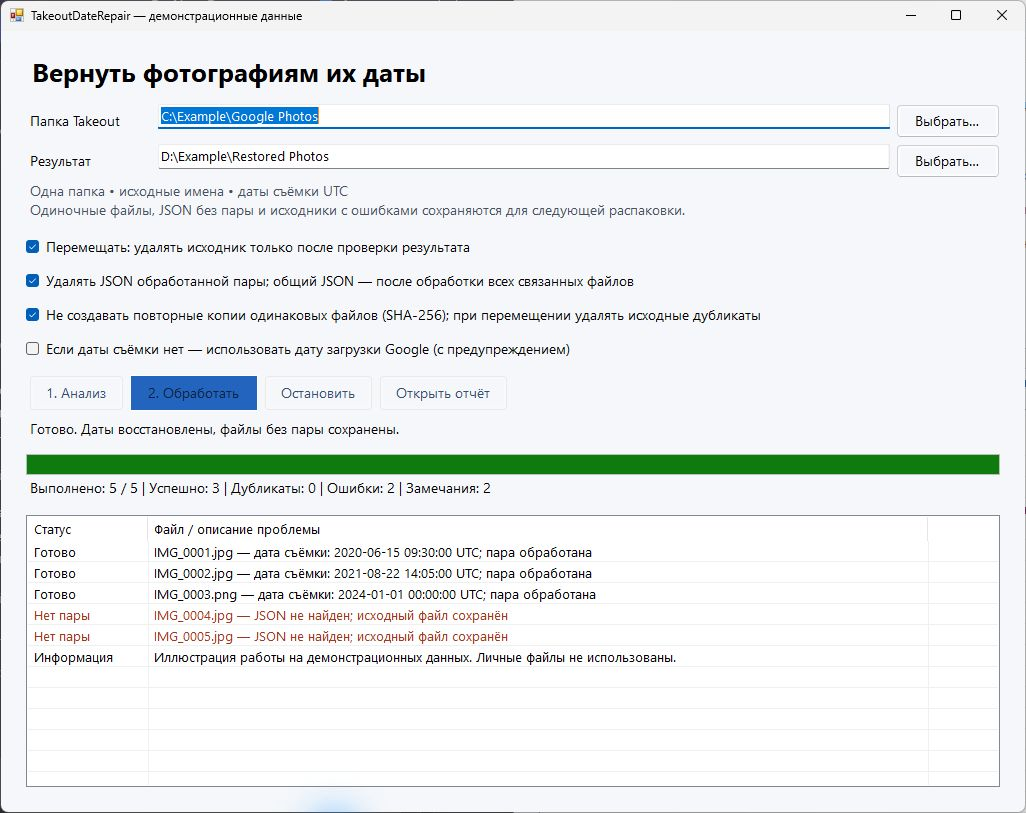
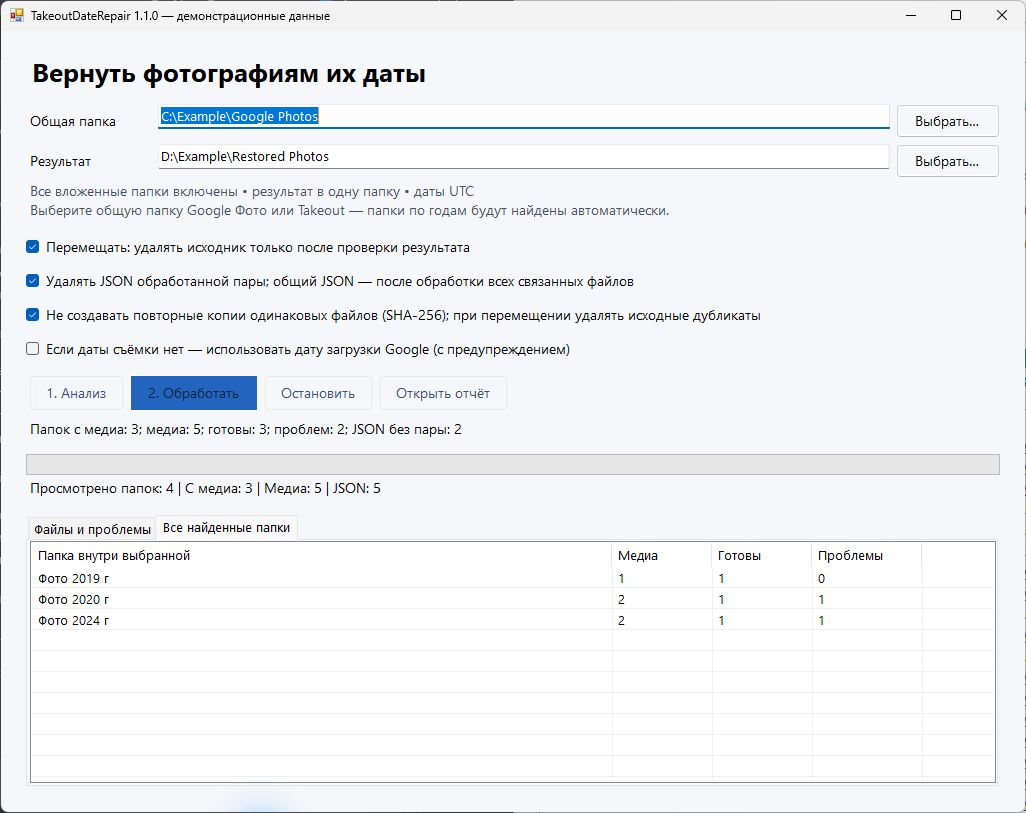
feat: show all nested folders in one queue

diff --git a/src/TakeoutDateRepair.cs b/src/TakeoutDateRepair.cs
@@ -14,6 +14,10 @@ using System.Threading.Tasks;
 using System.Web.Script.Serialization;
 using System.Windows.Forms;
 
+[assembly: System.Reflection.AssemblyVersion("1.1.0.0")]
+[assembly: System.Reflection.AssemblyFileVersion("1.1.0.0")]
+[assembly: System.Reflection.AssemblyProduct("TakeoutDateRepair")]
+
 namespace TakeoutDateRepair
 {
     public sealed class Sidecar
@@ -32,8 +36,14 @@ namespace TakeoutDateRepair
     {
         public List<Item> Items = new List<Item>();
         public List<string> Issues = new List<string>();
-        public int JsonCount, OrphanCount;
+        public int JsonCount, OrphanCount, DirectoryCount;
+        public List<FolderSummary> Folders = new List<FolderSummary>();
         public string Root;
+    }
+    public sealed class FolderSummary
+    {
+        public string Path;
+        public int MediaCount, ReadyCount, ProblemCount;
     }
     public sealed class History
     {
@@ -52,23 +62,35 @@ namespace TakeoutDateRepair
         static readonly HashSet<string> QuickTime = new HashSet<string>(new[] { ".mp4", ".mov", ".m4v", ".3gp", ".3g2" }, StringComparer.OrdinalIgnoreCase);
         static readonly HashSet<string> Exif = new HashSet<string>(new[] { ".jpg", ".jpeg", ".jpe", ".tif", ".tiff", ".heic", ".heif", ".png", ".webp", ".avif", ".dng" }, StringComparer.OrdinalIgnoreCase);
         public static JavaScriptSerializer Serializer() { return new JavaScriptSerializer { MaxJsonLength = 16 * 1024 * 1024 }; }
-        public static string Full(string path) { return System.IO.Path.GetFullPath(path).TrimEnd(System.IO.Path.DirectorySeparatorChar, System.IO.Path.AltDirectorySeparatorChar); }
-        public static bool Within(string child, string parent) { return string.Equals(Full(child), Full(parent), StringComparison.OrdinalIgnoreCase) || Full(child).StartsWith(Full(parent) + System.IO.Path.DirectorySeparatorChar, StringComparison.OrdinalIgnoreCase); }
-        static void Check(CancellationToken token) { token.ThrowIfCancellationRequested(); }
-        static List<string> Files(string root, List<string> issues, CancellationToken token)
+        public static string Full(string path)
         {
-            var files = new List<string>(); var pending = new Stack<string>(); pending.Push(root);
+            string full = System.IO.Path.GetFullPath(path), root = System.IO.Path.GetPathRoot(full);
+            return string.Equals(full, root, StringComparison.OrdinalIgnoreCase) ? full : full.TrimEnd(System.IO.Path.DirectorySeparatorChar, System.IO.Path.AltDirectorySeparatorChar);
+        }
+        public static bool Within(string child, string parent)
+        {
+            string fullChild = Full(child), fullParent = Full(parent);
+            string prefix = fullParent.EndsWith(System.IO.Path.DirectorySeparatorChar.ToString(), StringComparison.Ordinal) ? fullParent : fullParent + System.IO.Path.DirectorySeparatorChar;
+            return string.Equals(fullChild, fullParent, StringComparison.OrdinalIgnoreCase) || fullChild.StartsWith(prefix, StringComparison.OrdinalIgnoreCase);
+        }
+        static void Check(CancellationToken token) { token.ThrowIfCancellationRequested(); }
+        static List<string> Files(Scan scan, CancellationToken token, Action<string> progress)
+        {
+            var files = new List<string>(); var pending = new Stack<string>(); pending.Push(scan.Root);
             while (pending.Count > 0)
             {
                 Check(token); string dir = pending.Pop();
+                scan.DirectoryCount++;
+                if (scan.DirectoryCount == 1 || scan.DirectoryCount % 25 == 0)
+                    progress("Поиск во всех подпапках. Просмотрено папок: " + scan.DirectoryCount + " — " + dir);
                 try
                 {
                     files.AddRange(Directory.GetFiles(dir));
                     foreach (string sub in Directory.GetDirectories(dir))
                         if ((File.GetAttributes(sub) & FileAttributes.ReparsePoint) == 0) pending.Push(sub);
-                        else issues.Add("Пропущена ссылка на папку: " + sub);
+                        else scan.Issues.Add("Пропущена ссылка на папку: " + sub);
                 }
-                catch (Exception ex) { issues.Add("Не прочитана папка: " + dir + " — " + ex.Message); }
+                catch (Exception ex) { scan.Issues.Add("Не прочитана папка: " + dir + " — " + ex.Message); }
             }
             return files;
         }
@@ -127,7 +149,7 @@ namespace TakeoutDateRepair
         public static Scan Analyze(string root, bool fallback, CancellationToken token, Action<string> progress)
         {
             var scan = new Scan { Root = Full(root) };
-            var files = Files(root, scan.Issues, token);
+            var files = Files(scan, token, progress);
             var byName = new Dictionary<string, List<Sidecar>>(StringComparer.OrdinalIgnoreCase);
             var byTitle = new Dictionary<string, List<Sidecar>>(StringComparer.OrdinalIgnoreCase);
             var global = new Dictionary<string, List<Sidecar>>(StringComparer.OrdinalIgnoreCase);
@@ -166,7 +188,14 @@ namespace TakeoutDateRepair
             }
             foreach (var sc in sidecars.Where(x => !used.Contains(x.Path)))
             { scan.OrphanCount++; scan.Issues.Add("JSON без однозначно найденного медиа: " + sc.Path + (sc.Error == null ? "" : " — " + sc.Error)); }
+            foreach (var group in scan.Items.GroupBy(x => System.IO.Path.GetDirectoryName(x.Source), StringComparer.OrdinalIgnoreCase).OrderBy(x => x.Key, StringComparer.OrdinalIgnoreCase))
+                scan.Folders.Add(new FolderSummary { Path = group.Key, MediaCount = group.Count(), ReadyCount = group.Count(x => x.Problem == null), ProblemCount = group.Count(x => x.Problem != null) });
             progress("Анализ завершён"); return scan;
+        }
+        public static string Relative(string path, string root)
+        {
+            if (string.Equals(Full(path), Full(root), StringComparison.OrdinalIgnoreCase)) return "(корневая папка)";
+            return Within(path, root) ? Full(path).Substring(Full(root).Length).TrimStart(System.IO.Path.DirectorySeparatorChar, System.IO.Path.AltDirectorySeparatorChar) : path;
         }
         public static string Hash(string path, CancellationToken token)
         {
@@ -248,6 +277,8 @@ namespace TakeoutDateRepair
             using (var w = new StreamWriter(file, false, new UTF8Encoding(true)))
             {
                 Row(w, "Статус", "Исходный файл", "JSON", "Дата UTC", "Примечание");
+                Row(w, "Сводка анализа", scan.Root, "", "", "Просмотрено папок: " + scan.DirectoryCount + "; папок с медиа: " + scan.Folders.Count);
+                foreach (var summary in scan.Folders) Row(w, "Папка", summary.Path, "", "", "Медиа: " + summary.MediaCount + "; готовы: " + summary.ReadyCount + "; проблемы: " + summary.ProblemCount);
                 foreach (var item in scan.Items) Row(w, item.Problem == null ? "Готов" : "Проблема", item.Source, item.Metadata == null ? "" : item.Metadata.Path,
                     item.Metadata == null || item.Metadata.Error != null ? "" : item.Metadata.Utc.ToString("o"), item.Problem ?? item.Note);
                 foreach (string issue in scan.Issues) Row(w, "Проблема анализа", "", "", "", issue);
@@ -308,7 +339,7 @@ namespace TakeoutDateRepair
                             if (!File.Exists(item.Metadata.Path) || Hash(item.Metadata.Path, token) != item.Metadata.ContentHash)
                                 throw new IOException("JSON изменился или исчез после анализа. Повторите анализ; исходник сохранён");
                             var utc = item.Metadata.Utc; string stamp = utc.ToString("o");
-                            progress(stats, "Обработка: " + System.IO.Path.GetFileName(item.Source), false);
+                            progress(stats, "Обработка: " + Relative(item.Source, scan.Root), false);
                             string sourceHash = Hash(item.Source, token); string key = sourceHash + "|" + stamp;
                             History existing = null; List<History> candidates;
                             if (dedupe && history.TryGetValue(key, out candidates))
@@ -375,7 +406,7 @@ namespace TakeoutDateRepair
                         stats.Done++;
                         Row(report, status, item.Source, target, item.Metadata == null ? "" : item.Metadata.Path,
                             item.Metadata == null || item.Metadata.Error != null ? "" : item.Metadata.Utc.ToString("o"), note);
-                        progress(stats, status + ": " + System.IO.Path.GetFileName(item.Source) + (note.Length > 0 ? " — " + note : ""), bad || warning);
+                        progress(stats, status + ": " + Relative(item.Source, scan.Root) + (note.Length > 0 ? " — " + note : ""), bad || warning);
                         if (token.IsCancellationRequested) break;
                     }
                     Row(report, token.IsCancellationRequested ? "Обработка остановлена" : "Обработка завершена", "", "", "", "",
@@ -392,12 +423,12 @@ namespace TakeoutDateRepair
         readonly CheckBox move = new CheckBox(), cleanup = new CheckBox(), dedupe = new CheckBox(), fallback = new CheckBox();
         readonly Label state = new Label(), counts = new Label();
         readonly ProgressBar bar = new ProgressBar();
-        readonly ListView messages = new ListView();
+        readonly ListView messages = new ListView(), folders = new ListView();
         CancellationTokenSource cancellation;
         Scan scan; string reportPath; bool busy; readonly string exe;
         public MainForm(string tool)
         {
-            exe = tool; Text = "Takeout — восстановление дат фото и видео"; MinimumSize = new Size(860, 690); Size = new Size(1040, 820);
+            exe = tool; Text = "TakeoutDateRepair 1.1.0 — все вложенные папки"; MinimumSize = new Size(860, 690); Size = new Size(1040, 820);
             StartPosition = FormStartPosition.CenterScreen; Font = new Font("Segoe UI", 10); BackColor = Color.FromArgb(245, 247, 250);
             var layout = new TableLayoutPanel { Dock = DockStyle.Fill, Padding = new Padding(22), ColumnCount = 3, RowCount = 13 };
             layout.ColumnStyles.Add(new ColumnStyle(SizeType.Absolute, 132)); layout.ColumnStyles.Add(new ColumnStyle(SizeType.Percent, 100)); layout.ColumnStyles.Add(new ColumnStyle(SizeType.Absolute, 110));
@@ -407,11 +438,11 @@ namespace TakeoutDateRepair
             layout.RowStyles.Add(new RowStyle(SizeType.Absolute, 27)); layout.RowStyles.Add(new RowStyle(SizeType.Absolute, 34)); layout.RowStyles.Add(new RowStyle(SizeType.Percent, 100));
             var title = new Label { Text = "Вернуть фотографиям их даты", Font = new Font("Segoe UI", 19, FontStyle.Bold), Dock = DockStyle.Fill };
             layout.Controls.Add(title, 0, 0); layout.SetColumnSpan(title, 3);
-            layout.Controls.Add(new Label { Text = "Папка Takeout", AutoSize = true, Anchor = AnchorStyles.Left }, 0, 1);
+            layout.Controls.Add(new Label { Text = "Общая папка", AutoSize = true, Anchor = AnchorStyles.Left }, 0, 1);
             source.Dock = DockStyle.Fill; layout.Controls.Add(source, 1, 1); pickSource.Text = "Выбрать…"; pickSource.Dock = DockStyle.Fill; layout.Controls.Add(pickSource, 2, 1);
             layout.Controls.Add(new Label { Text = "Результат", AutoSize = true, Anchor = AnchorStyles.Left }, 0, 2);
             destination.Dock = DockStyle.Fill; layout.Controls.Add(destination, 1, 2); pickDestination.Text = "Выбрать…"; pickDestination.Dock = DockStyle.Fill; layout.Controls.Add(pickDestination, 2, 2);
-            var hint = new Label { Text = "Одна папка • исходные имена • даты съёмки UTC\nОдиночные файлы, JSON без пары и исходники с ошибками сохраняются для следующей распаковки.", Dock = DockStyle.Fill, ForeColor = Color.FromArgb(70, 80, 95) };
+            var hint = new Label { Text = "Все вложенные папки включены • результат в одну папку • даты UTC\nВыберите общую папку Google Фото или Takeout — папки по годам будут найдены автоматически.", Dock = DockStyle.Fill, ForeColor = Color.FromArgb(70, 80, 95) };
             layout.Controls.Add(hint, 0, 3); layout.SetColumnSpan(hint, 3);
             move.Text = "Перемещать: удалять исходник только после проверки результата"; move.Checked = true; move.AutoSize = true;
             cleanup.Text = "Удалять JSON обработанной пары; общий JSON — после обработки всех связанных файлов"; cleanup.Checked = true; cleanup.AutoSize = true;
@@ -423,13 +454,19 @@ namespace TakeoutDateRepair
             foreach (var b in new[] { analyze, start, cancel, report }) { b.AutoSize = true; b.Height = 36; b.Padding = new Padding(8, 2, 8, 2); buttons.Controls.Add(b); }
             start.BackColor = Color.FromArgb(35, 100, 190); start.ForeColor = Color.White; start.FlatStyle = FlatStyle.Flat;
             layout.Controls.Add(buttons, 0, 8); layout.SetColumnSpan(buttons, 3);
-            state.Text = "Выберите папки. Анализ не изменяет фотографии и видео."; state.Dock = DockStyle.Fill;
+            state.Text = "Выберите общую папку. Все подпапки обрабатываются за один запуск."; state.Dock = DockStyle.Fill;
             layout.Controls.Add(state, 0, 9); layout.SetColumnSpan(state, 3);
             bar.Dock = DockStyle.Fill; layout.Controls.Add(bar, 0, 10); layout.SetColumnSpan(bar, 3);
             counts.Text = "Выполнено: 0 / 0"; counts.Dock = DockStyle.Fill; layout.Controls.Add(counts, 0, 11); layout.SetColumnSpan(counts, 3);
             messages.Dock = DockStyle.Fill; messages.View = View.Details; messages.FullRowSelect = true; messages.GridLines = true;
             messages.Columns.Add("Статус", 120); messages.Columns.Add("Файл / описание проблемы", 780);
-            layout.Controls.Add(messages, 0, 12); layout.SetColumnSpan(messages, 3); Controls.Add(layout);
+            folders.Dock = DockStyle.Fill; folders.View = View.Details; folders.FullRowSelect = true; folders.GridLines = true;
+            folders.Columns.Add("Папка внутри выбранной", 580); folders.Columns.Add("Медиа", 100); folders.Columns.Add("Готовы", 100); folders.Columns.Add("Проблемы", 110);
+            var tabs = new TabControl { Dock = DockStyle.Fill };
+            var fileTab = new TabPage("Файлы и проблемы"); fileTab.Controls.Add(messages);
+            var folderTab = new TabPage("Все найденные папки"); folderTab.Controls.Add(folders);
+            tabs.TabPages.Add(fileTab); tabs.TabPages.Add(folderTab);
+            layout.Controls.Add(tabs, 0, 12); layout.SetColumnSpan(tabs, 3); Controls.Add(layout);
             pickSource.Click += delegate { Pick(source); }; pickDestination.Click += delegate { Pick(destination); };
             source.TextChanged += delegate { InvalidateScan(); }; fallback.CheckedChanged += delegate { InvalidateScan(); };
             move.CheckedChanged += delegate { EnableControls(); };
@@ -439,10 +476,10 @@ namespace TakeoutDateRepair
             FormClosing += delegate(object sender, FormClosingEventArgs e) { if (busy) { e.Cancel = true; cancellation.Cancel(); state.Text = "Дождитесь безопасной остановки, затем закройте окно."; } };
             EnableControls();
         }
-        void Pick(TextBox box) { using (var d = new FolderBrowserDialog { Description = box == source ? "Выберите папку Google Фото" : "Выберите отдельную папку для результата", ShowNewFolderButton = true }) { if (Directory.Exists(box.Text)) d.SelectedPath = box.Text; if (d.ShowDialog(this) == DialogResult.OK) box.Text = d.SelectedPath; } }
+        void Pick(TextBox box) { using (var d = new FolderBrowserDialog { Description = box == source ? "Выберите общую папку Google Фото или Takeout. Все вложенные папки по годам будут включены автоматически." : "Выберите отдельную папку для результата всех годов", ShowNewFolderButton = true }) { if (Directory.Exists(box.Text)) d.SelectedPath = box.Text; if (d.ShowDialog(this) == DialogResult.OK) box.Text = d.SelectedPath; } }
         void InvalidateScan()
         {
-            scan = null; reportPath = null; messages.Items.Clear(); bar.Value = 0;
+            scan = null; reportPath = null; messages.Items.Clear(); folders.Items.Clear(); bar.Value = 0;
             counts.Text = "Выполнено: 0 / 0";
             state.Text = "Папка или настройки изменены. Нажмите «1. Анализ».";
             EnableControls();
@@ -463,13 +500,18 @@ namespace TakeoutDateRepair
         {
             if (!Directory.Exists(source.Text)) { MessageBox.Show(this, "Выберите существующую папку с экспортом Google Фото."); return; }
             string root = source.Text; bool useFallback = fallback.Checked;
-            busy = true; cancellation = new CancellationTokenSource(); scan = null; EnableControls(); messages.Items.Clear(); bar.Style = ProgressBarStyle.Marquee; state.Text = "Поиск фото, видео и JSON во вложенных папках…";
+            busy = true; cancellation = new CancellationTokenSource(); scan = null; EnableControls(); messages.Items.Clear(); folders.Items.Clear(); bar.Style = ProgressBarStyle.Marquee; state.Text = "Поиск фото, видео и JSON во всех вложенных папках…";
             try
             {
                 scan = await Task.Run(() => Engine.Analyze(root, useFallback, cancellation.Token, s => Ui(() => state.Text = s)));
                 int problems = scan.Items.Count(x => x.Problem != null);
-                state.Text = "Найдено медиа: " + scan.Items.Count.ToString("N0") + "; готовы: " + (scan.Items.Count - problems).ToString("N0") + "; проблем: " + problems + "; JSON без пары: " + scan.OrphanCount;
-                counts.Text = "Медиа: " + scan.Items.Count + " | JSON: " + scan.JsonCount + " | Замечаний анализа: " + scan.Issues.Count;
+                state.Text = "Папок с медиа: " + scan.Folders.Count + "; медиа: " + scan.Items.Count.ToString("N0") + "; готовы: " + (scan.Items.Count - problems).ToString("N0") + "; проблем: " + problems + "; JSON без пары: " + scan.OrphanCount;
+                counts.Text = "Просмотрено папок: " + scan.DirectoryCount + " | С медиа: " + scan.Folders.Count + " | Медиа: " + scan.Items.Count + " | JSON: " + scan.JsonCount;
+                foreach (var folder in scan.Folders)
+                {
+                    var row = new ListViewItem(Engine.Relative(folder.Path, scan.Root)); row.SubItems.Add(folder.MediaCount.ToString()); row.SubItems.Add(folder.ReadyCount.ToString()); row.SubItems.Add(folder.ProblemCount.ToString()); folders.Items.Add(row);
+                }
+                Message("Все " + scan.Folders.Count + " папок с медиа включены в общую очередь. Список — во вкладке «Все найденные папки».", false);
                 foreach (var i in scan.Items.Where(x => x.Problem != null || x.Note != null).Take(1000)) Message(i.Source + " — " + (i.Problem ?? i.Note), true);
                 foreach (var issue in scan.Issues.Take(300)) Message(issue, true);
                 string reports = System.IO.Path.Combine(System.IO.Path.GetTempPath(), "TakeoutDateRepair-reports"); reportPath = Engine.SaveScan(scan, reports);
@@ -491,7 +533,7 @@ namespace TakeoutDateRepair
             }
             catch (Exception ex) { MessageBox.Show(this, ex.Message); return; }
             bool moving = move.Checked, skipDuplicates = dedupe.Checked, deleteJson = cleanup.Checked;
-            if (moving && MessageBox.Show(this, "После проверки результата будут удалены исходные фото и видео, включая дубликаты с проверенной готовой копией.\n\n" + (deleteJson ? "JSON обработанных пар также удалятся. Общий JSON удалится, только когда больше не нужен оставшимся исходникам." : "Исходные JSON останутся на месте.") + "\n\nФайлы без пары и файлы с ошибками сохранятся.\n\nПродолжить перемещение в:\n" + dest + "?", "Подтверждение перемещения", MessageBoxButtons.YesNo, MessageBoxIcon.Warning, MessageBoxDefaultButton.Button2) != DialogResult.Yes) return;
+            if (moving && MessageBox.Show(this, "Обрабатываются все " + scan.Folders.Count + " папок с медиа внутри:\n" + scan.Root + "\n\nПосле проверки результата будут удалены исходные фото и видео, включая дубликаты с проверенной готовой копией.\n\n" + (deleteJson ? "JSON обработанных пар также удалятся. Общий JSON удалится, только когда больше не нужен оставшимся исходникам." : "Исходные JSON останутся на месте.") + "\n\nФайлы без пары и файлы с ошибками сохранятся.\n\nПродолжить перемещение в:\n" + dest + "?", "Подтверждение перемещения всех подпапок", MessageBoxButtons.YesNo, MessageBoxIcon.Warning, MessageBoxDefaultButton.Button2) != DialogResult.Yes) return;
             busy = true; cancellation = new CancellationTokenSource(); EnableControls(); bar.Maximum = Math.Max(scan.Items.Count, 1); bar.Value = 0; state.Text = "Обработка…";
             try
             {
@@ -499,7 +541,7 @@ namespace TakeoutDateRepair
                     int done = s.Done, total = s.Total, ok = s.Success, failed = s.Failed, dup = s.Duplicates, warn = s.Warnings;
                     Ui(() => { bar.Value = Math.Min(done, bar.Maximum); counts.Text = string.Format("Выполнено: {0:N0} / {1:N0} | Успешно: {2:N0} | Дубликаты: {3:N0} | Ошибки: {4:N0} | Замечания: {5:N0}", done, total, ok, dup, failed, warn); state.Text = text.Length > 130 ? text.Substring(0, 127) + "…" : text; if (!text.StartsWith("Обработка:")) Message(text, error); });
                 }, deleteJson));
-                reportPath = result.Report; state.Text = cancellation.IsCancellationRequested ? "Остановлено. Необработанные исходники сохранены." : "Готово. Полный результат — в CSV-отчёте.";
+                reportPath = result.Report; state.Text = cancellation.IsCancellationRequested ? "Остановлено. Необработанные исходники сохранены." : "Готово. Общая очередь из " + scan.Folders.Count + " папок обработана. Подробности — в CSV-отчёте.";
                 Message("Отчёт: " + reportPath, false);
                 if (moving) scan = null;
             }
@@ -546,7 +588,7 @@ namespace TakeoutDateRepair
                 {
                     var scan = Engine.Analyze(args[1], false, CancellationToken.None, s => { });
                     string report = Engine.SaveScan(scan, args[2]);
-                    File.WriteAllText(System.IO.Path.Combine(args[2], "scan-summary.json"), Engine.Serializer().Serialize(new { media = scan.Items.Count, ready = scan.Items.Count(x => x.Problem == null), problems = scan.Items.Count(x => x.Problem != null), json = scan.JsonCount, orphan = scan.OrphanCount, issues = scan.Issues.Count, report = report }), Encoding.UTF8); return;
+                    File.WriteAllText(System.IO.Path.Combine(args[2], "scan-summary.json"), Engine.Serializer().Serialize(new { media = scan.Items.Count, ready = scan.Items.Count(x => x.Problem == null), problems = scan.Items.Count(x => x.Problem != null), json = scan.JsonCount, orphan = scan.OrphanCount, issues = scan.Issues.Count, directories = scan.DirectoryCount, mediaFolders = scan.Folders.Count, folders = scan.Folders, report = report }), Encoding.UTF8); return;
                 }
                 Application.Run(new MainForm(ExtractTool()));
             }

diff --git a/tests/MultiFolderTests.cs b/tests/MultiFolderTests.cs
@@ -1,0 +1,86 @@
+using System;
+using System.IO;
+using System.Linq;
+using System.Drawing;
+using System.Text;
+using System.Threading;
+using System.Collections.Generic;
+using TakeoutDateRepair;
+
+public static class MultiFolderTests
+{
+    static int checks;
+    static void Assert(bool condition, string message)
+    {
+        if (!condition) throw new Exception(message);
+        checks++; Console.WriteLine("PASS " + message);
+    }
+    static void Pair(string folder, string name, Color color, long timestamp)
+    {
+        Directory.CreateDirectory(folder); string file = Path.Combine(folder, name);
+        using (var image = new Bitmap(40, 40))
+        {
+            using (var graphics = Graphics.FromImage(image)) graphics.Clear(color);
+            image.Save(file, System.Drawing.Imaging.ImageFormat.Jpeg);
+        }
+        File.WriteAllText(file + ".supplemental-metadata.json", Engine.Serializer().Serialize(new {
+            title = name, photoTakenTime = new { timestamp = timestamp.ToString(System.Globalization.CultureInfo.InvariantCulture) }
+        }), new UTF8Encoding(false));
+    }
+    public static void Main(string[] args)
+    {
+        string root = Path.GetFullPath(args[0]), input = Path.Combine(root, "Общая папка"), output = Path.Combine(root, "Результат всех годов");
+        string driveRoot = Path.GetPathRoot(root);
+        Assert(Engine.Full(driveRoot) == driveRoot && Engine.Within(Path.Combine(driveRoot, "Example", "Photos"), driveRoot) && Engine.Relative(Path.Combine(driveRoot, "Example", "Photos"), driveRoot) == Path.Combine("Example", "Photos"), "Drive roots retain their separator and relative paths stay correct");
+        string photos = Path.Combine(input, "Takeout", "Google Фото");
+        string year2019 = Path.Combine(photos, "Фото 2019 г"), year2020 = Path.Combine(photos, "Фото 2020 г");
+        string year2024 = Path.Combine(photos, "Фото 2024 г"), album = Path.Combine(year2024, "Вложенный альбом");
+        Pair(year2019, "IMG_0001.jpg", Color.Red, 1546300800);
+        Pair(year2020, "IMG_0001.jpg", Color.Green, 1577836800);
+        Pair(album, "Nested.jpg", Color.Blue, 1704067200);
+        Pair(photos, "Root.jpg", Color.Gold, 1609459200);
+        Directory.CreateDirectory(Path.Combine(photos, "Фото 2018 г — пусто"));
+        string orphanMedia = Path.Combine(year2020, "Нет JSON.jpg"), orphanJson = Path.Combine(year2024, "Нет фото.jpg.json");
+        using (var image = new Bitmap(20, 20)) image.Save(orphanMedia, System.Drawing.Imaging.ImageFormat.Jpeg);
+        File.WriteAllText(orphanJson, "{\"title\":\"Нет фото.jpg\",\"photoTakenTime\":{\"timestamp\":\"1704067200\"}}");
+        string orphanHash = Engine.Hash(orphanMedia, CancellationToken.None), orphanJsonHash = Engine.Hash(orphanJson, CancellationToken.None);
+        var scan = Engine.Analyze(input, false, CancellationToken.None, s => Console.WriteLine(s));
+        Assert(scan.DirectoryCount == 8, "One parent selection visits the entire Takeout hierarchy, including empty folders");
+        Assert(scan.Items.Count == 5 && scan.Folders.Count == 4, "Root media and three nested media folders share one queue");
+        Assert(scan.Items.Count(x => x.Problem == null) == 4 && scan.OrphanCount == 1, "All four pairs are found while unmatched files remain explicit");
+        var folder2020 = scan.Folders.Single(x => x.Path == year2020);
+        Assert(folder2020.MediaCount == 2 && folder2020.ReadyCount == 1 && folder2020.ProblemCount == 1, "Folder summary reports ready and problem counts separately");
+        var direct = Engine.Analyze(photos, false, CancellationToken.None, s => { });
+        Assert(direct.DirectoryCount == 6 && direct.Items.Select(x => x.Source).OrderBy(x => x).SequenceEqual(scan.Items.Select(x => x.Source).OrderBy(x => x)), "Selecting Google Photos or its parent finds the same media");
+        string analysisReport = Engine.SaveScan(scan, root);
+        string reportText = File.ReadAllText(analysisReport);
+        Assert(reportText.Contains("Сводка анализа") && reportText.Contains("Папка") && reportText.Contains("Вложенный альбом"), "CSV includes the full folder summary");
+        var expected = scan.Items.Where(x => x.Problem == null).Select(x => new {
+            item = x, hash = Engine.Hash(x.Source, CancellationToken.None), utc = x.Metadata.Utc
+        }).ToArray();
+        var progress = new List<string>();
+        var result = Engine.Process(scan, output, args[1], true, true, CancellationToken.None, (s, text, problem) => { progress.Add(text); Console.WriteLine(text); }, true);
+        Assert(result.Done == 5 && result.Success == 4 && result.Failed == 1, "A single run processes every year, the nested album and root files");
+        Assert(progress.Any(x => x.Contains("Фото 2019 г")) && progress.Any(x => x.Contains("Вложенный альбом")), "Progress identifies each current subfolder rather than only the filename");
+        var history = File.ReadAllLines(Path.Combine(output, "_TakeoutDateRepair", "history.jsonl")).Select(x => Engine.Serializer().Deserialize<History>(x)).ToArray();
+        foreach (var entry in expected)
+        {
+            var recorded = history.Single(x => x.sourceHash == entry.hash);
+            Assert(File.Exists(recorded.target), "Verified output exists for " + Engine.Relative(entry.item.Source, scan.Root));
+            Engine.VerifyMetadata(args[1], recorded.target, entry.utc);
+            Assert(File.GetCreationTimeUtc(recorded.target) == entry.utc && File.GetLastWriteTimeUtc(recorded.target) == entry.utc, "Date belongs to the matching year-specific JSON");
+            Assert(!File.Exists(entry.item.Source) && !File.Exists(entry.item.Metadata.Path), "Only the successfully processed test pair is removed");
+        }
+        Assert(Directory.GetFiles(output, "*.jpg", SearchOption.TopDirectoryOnly).Length == 4 && File.Exists(Path.Combine(output, "IMG_0001.jpg")) && File.Exists(Path.Combine(output, "IMG_0001 (2).jpg")), "Identical filenames from different years never overwrite each other");
+        Assert(Engine.Hash(orphanMedia, CancellationToken.None) == orphanHash && Engine.Hash(orphanJson, CancellationToken.None) == orphanJsonHash, "Unmatched files in different years remain unchanged");
+        var repeated = Engine.Analyze(input, false, CancellationToken.None, s => { });
+        Assert(repeated.Items.Count == 1 && repeated.Items.All(x => x.Problem != null) && repeated.OrphanCount == 1, "A fresh scan contains only leftovers after all years were processed");
+        string newYear = Path.Combine(photos, "Фото 2025 г");
+        Pair(newYear, "IMG_0001.jpg", Color.Red, 1546300800);
+        var nextBatch = Engine.Analyze(input, false, CancellationToken.None, s => { });
+        var resumed = Engine.Process(nextBatch, output, args[1], true, true, CancellationToken.None, (s, text, problem) => { }, true);
+        Assert(resumed.Duplicates == 1 && !File.Exists(Path.Combine(newYear, "IMG_0001.jpg")) && !File.Exists(Path.Combine(newYear, "IMG_0001.jpg.supplemental-metadata.json")), "A new year folder is included on the next scan and a verified duplicate is cleaned up");
+        Assert(Directory.GetFiles(output, "*.jpg", SearchOption.TopDirectoryOnly).Length == 4, "Repeat processing does not create a redundant output");
+        Console.WriteLine("ALL " + checks + " MULTI-FOLDER CHECKS PASSED");
+    }
+}
